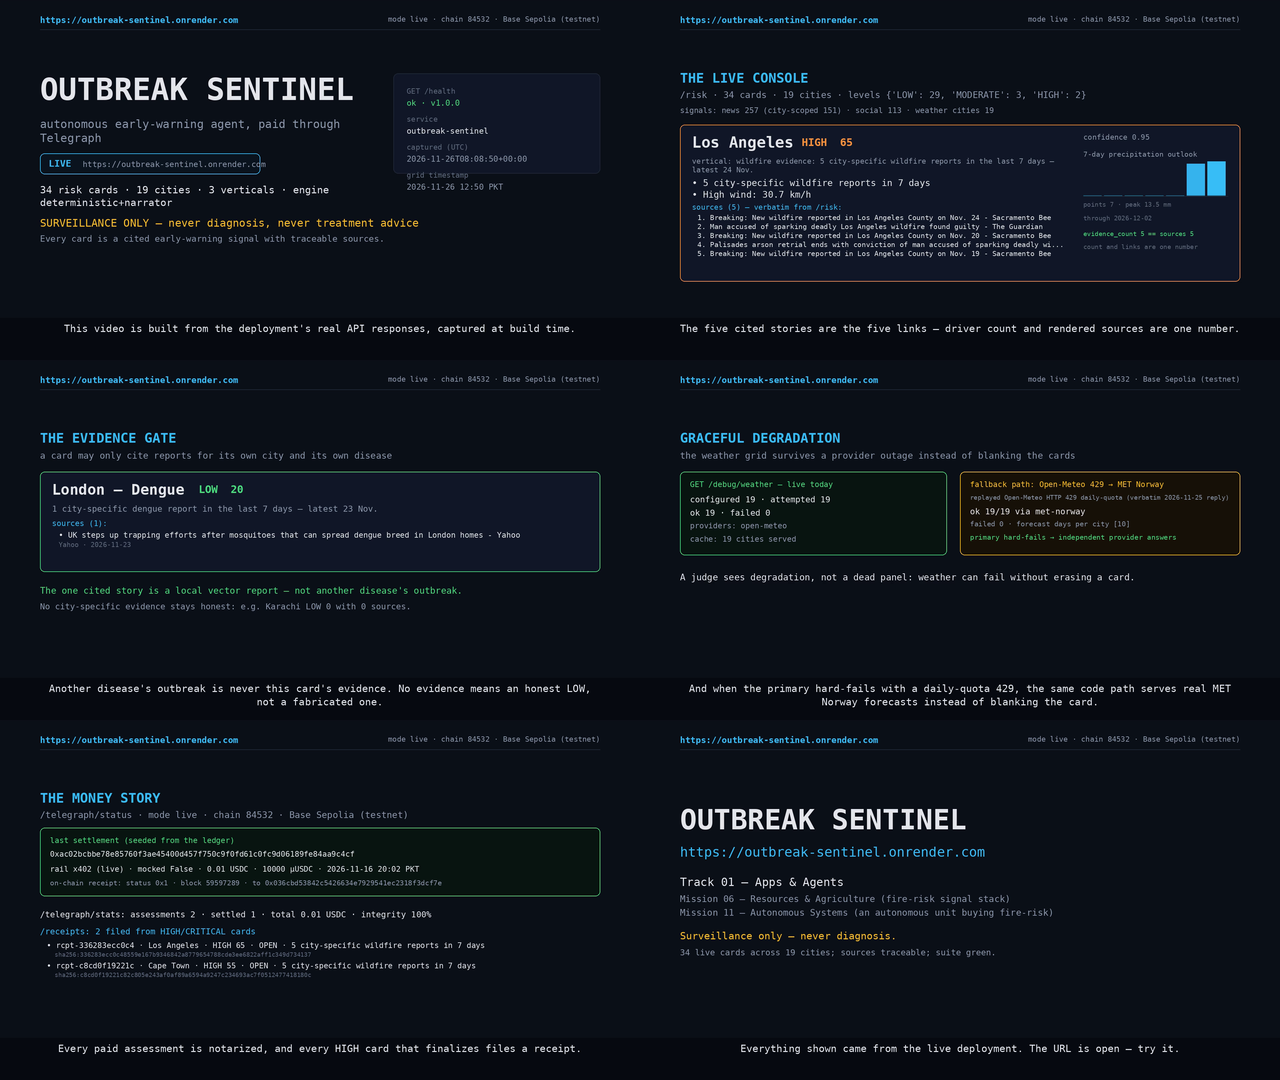
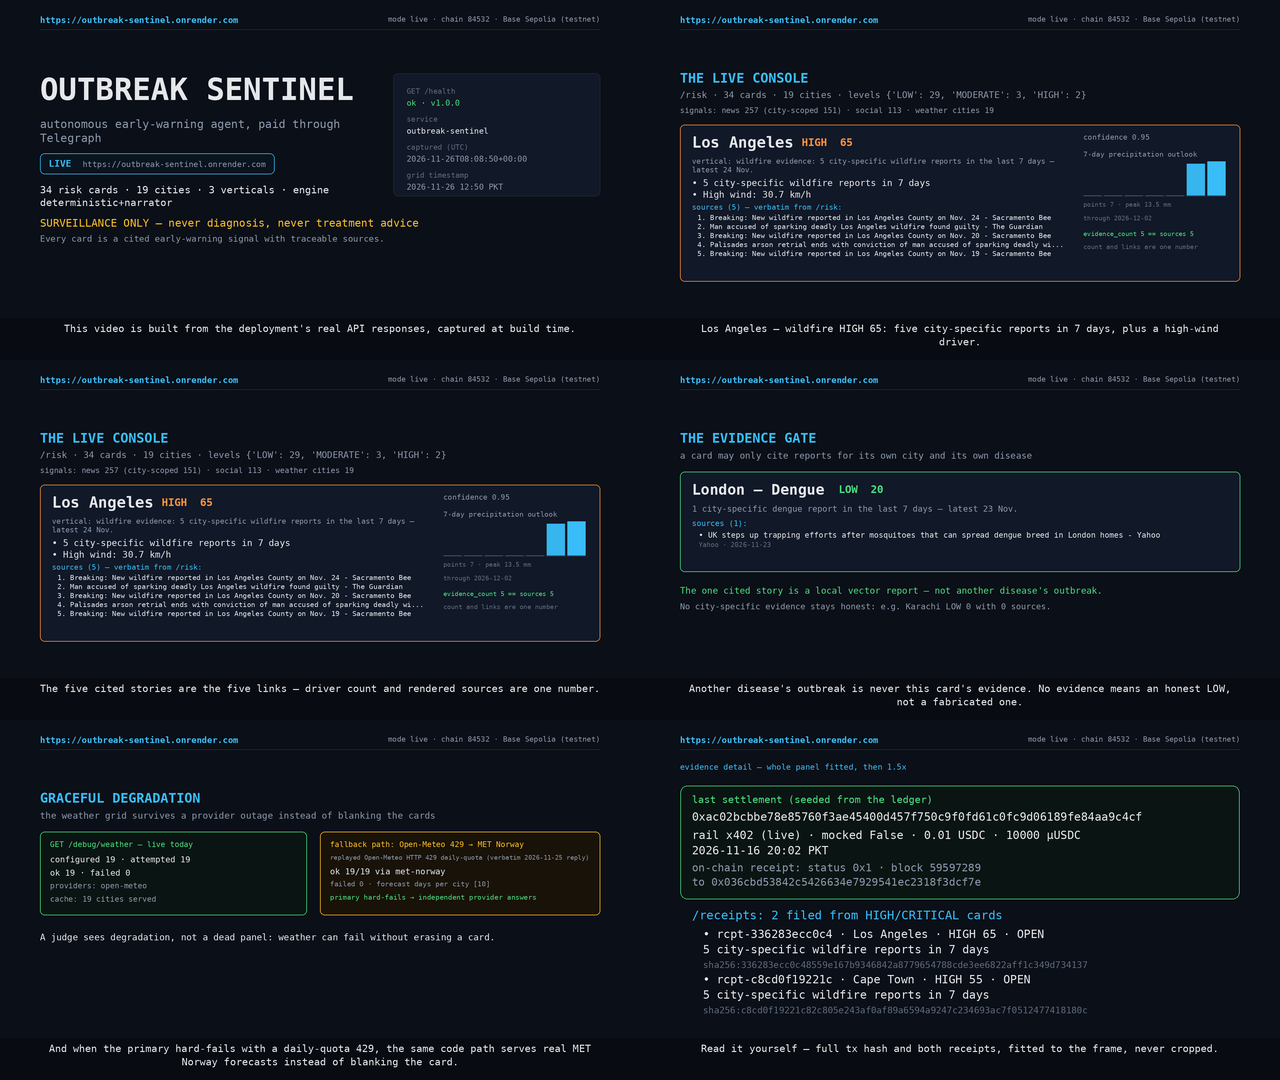
docs(demo): point the submission doc at the form stills; refresh montage
The submission doc described only the mp4, but the six 1920x1080 PNGs in
demo/screenshots/ are what goes into the submission form. Names them and
notes they come from the same render path, plus the scene-5 1.5x hold.

demo/frames/montage-6up.png was rendered from the pre-V-2 renderer, so it
still carried the title-card overflow that V-2 fixed (LIVE pill clipping
its URL, /health panel's last row outside its border). Regenerated from
the current render path.

diff --git a/demo/HACKATHON-SUBMISSION.md b/demo/HACKATHON-SUBMISSION.md
@@ -24,6 +24,8 @@ env -u PYTHONPATH .venv/bin/python -m uvicorn app:app --host 127.0.0.1 --port 80
 
 **Video (3:52):** `demo/outbreak-sentinel-demo.mp4` — built from the live API's real responses at build time; captions and per-scene captured fields in `demo/VIDEO-CAPTIONS.md`. Rebuild: `./demo/capture_video_data.sh` → `capture_video_data.py` → `render_video.py`.
 
+**Form screenshots (1920×1080):** `demo/screenshots/` — `01-title`, `02-console-grid`, `03-la-card`, `04-evidence-gate`, `05-weather-resilience`, `06-money-story`. Rendered by `render_video.py --stills demo/screenshots` through the same code path as the video. Scene 5 ends on a 4 s hold at a literal 1.5× type scale so a reviewer can read the full tx hash and both receipt rows.
+
 ## Missions
 
 - **06 — Resources and Agriculture.** The wildfire vertical answers "days-to-impact per site" from the agent's own signal stack: city-scoped wildfire reports over 7 days plus a dry/windy outlook, each card carrying its own evidence count, score and cited sources. The agent buys the matching intelligence through Telegraph and the answer becomes a cited driver on the card.
